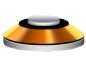
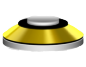
nuevas animaciones

diff --git a/DubHero_UI/Vistas/GameView.xaml.cs b/DubHero_UI/Vistas/GameView.xaml.cs
@@ -87,7 +87,7 @@ namespace DubHero_UI.Vistas
 
 
         //Image of notes
-        ImageBrush imgB;
+        ImageBrush imgB;ImageBrush imgB2;ImageBrush imgB3;ImageBrush imgB4;ImageBrush imgB5;
 
         #endregion
 
@@ -125,6 +125,7 @@ namespace DubHero_UI.Vistas
             base.OnNavigatedTo(e);
             initFailSuccesAnimation();
             initImage();
+
         }
         #endregion
 
@@ -348,12 +349,32 @@ namespace DubHero_UI.Vistas
         public void initImage() {
 
             imgB = new ImageBrush();
-
             BitmapImage btpImg = new BitmapImage();
-
-            btpImg.UriSource = new Uri(@"ms-appx:///Assets/Imagenes/Notas/nota2.gif");
-
+            btpImg.UriSource = new Uri(@"ms-appx:///Assets/Imagenes/Notas/amarilla2.png");
             imgB.ImageSource = btpImg;
+
+
+            imgB2 = new ImageBrush();
+            BitmapImage btpImg2 = new BitmapImage();
+            btpImg2.UriSource = new Uri(@"ms-appx:///Assets/Imagenes/Notas/azul.png");
+            imgB2.ImageSource = btpImg2;
+
+
+            imgB3 = new ImageBrush();
+            BitmapImage btpImg3 = new BitmapImage();
+            btpImg3.UriSource = new Uri(@"ms-appx:///Assets/Imagenes/Notas/dorada.png");
+            imgB3.ImageSource = btpImg3;
+
+
+            imgB4 = new ImageBrush();
+            BitmapImage btpImg4 = new BitmapImage();
+            btpImg4.UriSource = new Uri(@"ms-appx:///Assets/Imagenes/Notas/roja.png");
+            imgB4.ImageSource = btpImg4;
+
+            imgB5 = new ImageBrush();
+            BitmapImage btpImg5 = new BitmapImage();
+            btpImg5.UriSource = new Uri(@"ms-appx:///Assets/Imagenes/Notas/verde.png");
+            imgB5.ImageSource = btpImg5;
 
         }
 
@@ -523,6 +544,7 @@ namespace DubHero_UI.Vistas
 
             //habira que hacerlas relativas a la pantalla
             int xInit = 0, xFin = 0;
+            ImageBrush imageBrush = null;
 
             SolidColorBrush scb = new SolidColorBrush();
             switch (nota.NoteNumber)
@@ -531,30 +553,39 @@ namespace DubHero_UI.Vistas
                     scb = new SolidColorBrush(Colors.Red); // hacer que aparezca en una coordinada 
                     xInit = 380;
                     xFin = 15;
+                    imageBrush = imgB;
                     break;
 
                 case 62:
                     scb = new SolidColorBrush(Colors.Gray);
                     xInit = 468;
                     xFin = 286;
+                    imageBrush = imgB2;
+
                     break;
 
                 case 64:
                     scb = new SolidColorBrush(Colors.Pink);
                     xInit = 564;
                     xFin = 552;
+                    imageBrush = imgB3;
+
                     break;
 
                 case 65:
                     scb = new SolidColorBrush(Colors.Purple);
                     xInit = 665;
                     xFin = 835;
+                    imageBrush = imgB4;
+
                     break;
 
                 case 67:
                     scb = new SolidColorBrush(Colors.Green);
                     xInit = 760;
                     xFin = 1091;
+                    imageBrush = imgB5;
+
                     break;
             }
 
@@ -564,7 +595,7 @@ namespace DubHero_UI.Vistas
             {
                 Width = 80,
                 Height = (_currentTime - nota.ReadTime) * 1.5, // esta mal pero habria que ponerlo segun la velocidad de la cancion 
-                Fill = imgB,
+                Fill = imageBrush,
 
                 //CornerRadius = 5,
                 VerticalAlignment = VerticalAlignment.Top,
